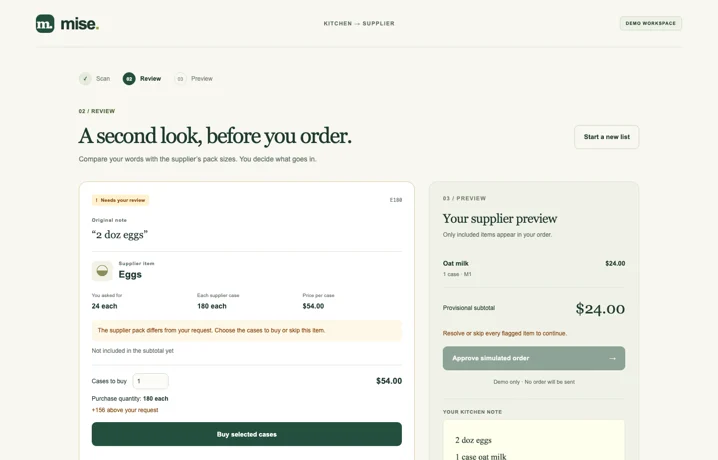
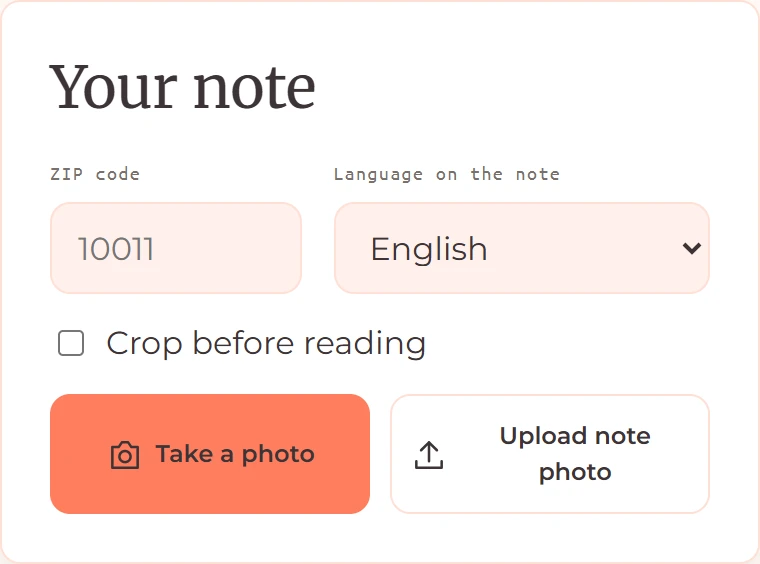
Updated main page content & minor UI changes

diff --git a/index.html b/index.html
@@ -25,7 +25,7 @@
 
     <section id="about" class="section">
       <h2>About</h2>
-      <p class="intro">I’m a computer science student at the University of Pittsburgh. I build web and mobile apps, and I’ve worked on payment systems and developer tools.</p>
+      <p class="intro">I'm studying computer science at the University of Pittsburgh with a minor in economics, and I enjoy working on technology that directly impacts people. Most of my experience is in web and mobile development. Lately, I've been learning about blockchain development and trying my hand at robotics.</p>
     </section>
 
     <section id="experience" class="section">
@@ -34,17 +34,17 @@
         <li>
           <h3><strong>Erie Insurance</strong> <span class="role-separator" aria-hidden="true">· </span>Software Engineer Intern</h3>
           <p class="details">May–Aug 2026 · Erie, PA</p>
-          <p>Cut AWS ECR image deletion turnaround from two weeks to minutes by automating ticket-based cleanup in GitLab CI/CD with protected-tag checks.</p>
+          <p>I worked on Erie's Omnichannel Communications team, where I helped maintain cloud infrastructure, automate routine upkeep through CI/CD and brought older services up to date.</p>
         </li>
         <li>
           <h3><strong>Ripple</strong> <span class="role-separator" aria-hidden="true">· </span>XRPL Student Builder Resident</h3>
           <p class="details">Mar–Apr 2026 · London, UK</p>
-          <p>Built server-side payment verification for DropIn that checked ledger finality, delivered amounts, and token issuers to reject partial payments and wrong-token transactions.</p>
+          <p>Ripple's student builder residency gave each of us four weeks to come up with an idea, build it on our own, and pitch it. I built DropIn, a way to pay for individual articles, and presented it at Ripple's London office.</p>
         </li>
         <li>
           <h3><strong>Gaida Corporation</strong> <span class="role-separator" aria-hidden="true">· </span>Software Engineer Intern</h3>
           <p class="details">May–Aug 2025 · Remote</p>
-          <p>Cut user search time from minutes to seconds by adding Firestore indexing and pagination to a Next.js admin dashboard.</p>
+          <p>A San Francisco startup building Saige, an relationship discovery app that aims to help people create meaningful connections. I worked on the mobile app and the internal operations tools used to manage it.</p>
         </li>
       </ul>
     </section>
@@ -54,22 +54,22 @@
       <ul class="entries">
         <li>
           <a class="project" href="https://github.com/aaz50/DropIn">DropIn</a>
-          <span>Pay for individual articles with XRP or stablecoins.</span>
+          <span>Built to give readers the option to pay only for the articles they want to read instead of worrying about another subscription.</span>
           <img class="preview" src="previews/dropin.webp" alt="" width="260" height="166">
         </li>
         <li>
           <a class="project" href="https://github.com/aaz50/Mise">Mise</a>
-          <span>Turn handwritten kitchen supply lists into simulated supplier carts. Two OCR passes flag discrepancies for review.</span>
-          <img class="preview" src="previews/mise.webp" alt="" width="260" height="166">
+          <span>Helps immigrant restaurant owners turn handwritten supply lists into draft orders.</span>
+          <img class="preview" src="previews/mise.webp" alt="" width="760" height="564">
         </li>
         <li>
           <a class="project" href="https://github.com/aaz50/BackedX">BackedX</a>
-          <span>Mint and trade NFTs backed by XRP escrow. Placed third in the Ripple track at TartanHacks.</span>
+          <span>An open marketplace where you can turn any digital asset into an NFT and list it for someone else to buy.</span>
           <img class="preview" src="previews/backedx.webp" alt="" width="260" height="166">
         </li>
         <li>
           <a class="project" href="https://github.com/aaz50/RollodorVision">RollodorVision</a>
-          <span>Vision model for a robotic Belmet Rollodor.</span>
+          <span>A vision model for a robotic version of the vintage Belmet Rollodor.</span>
           <img class="preview" src="previews/rollodor.webp" alt="" width="260" height="166">
         </li>
       </ul>

diff --git a/style.css b/style.css
@@ -29,8 +29,7 @@ h2 + * { margin-top: 14px; }
 .profiles a { max-width: 100%; overflow-wrap: anywhere; }
 .contents a, .profiles a { padding-block: 4px; }
 .overview { padding-bottom: 25px; }
-.intro { max-width: 52ch; font-size: 1.25rem; text-wrap: pretty; }
-.internship { margin-top: 10px; }
+.intro { max-width: 60ch; text-wrap: pretty; }
 a {
   color: inherit;
   text-decoration-color: #a49e93;
@@ -45,15 +44,9 @@ a:focus-visible { outline: 2px solid var(--ink); outline-offset: 3px; }
 .experience-list { display: grid; gap: 20px; }
 .experience-list h3 { font-size: 1rem; font-weight: 400; }
 .details { margin-block: 2px 6px; font-size: .9375rem; color: var(--muted); }
-.entries li {
-  display: grid;
-  grid-template-columns: 10rem minmax(0, 1fr);
-  align-items: baseline;
-  column-gap: 16px;
-  padding-block: 6px;
-}
+.entries { display: grid; row-gap: 12px; }
 strong, .project { font-weight: 600; }
-.project { justify-self: start; }
+.project { margin-inline-end: .25em; }
 .entries li > span { color: var(--muted); }
 .preview {
   display: none;
@@ -68,8 +61,8 @@ strong, .project { font-weight: 600; }
 }
 .preview.visible { display: block; }
 .assembly {
-  position: fixed;
-  inset: 0;
+  position: absolute;
+  inset: 0 0 auto;
   z-index: 2;
   overflow: hidden;
   pointer-events: none;
@@ -82,10 +75,8 @@ strong, .project { font-weight: 600; }
   a:hover { text-decoration-color: currentColor; }
 }
 @media (max-width: 620px) {
-  .intro { font-size: 1.125rem; }
   .experience-list h3 strong { display: block; }
   .role-separator { display: none; }
-  .entries li { grid-template-columns: 1fr; padding-block: 6px; }
 }
 @media (prefers-reduced-motion: no-preference) {
   html { scroll-behavior: smooth; }

diff --git a/main.js b/main.js
@@ -34,6 +34,7 @@ function assemblePage() {
   const rows = Math.max(1, Math.round(height / size));
   const overlay = document.createElement("div");
   overlay.className = "assembly";
+  overlay.style.height = height + "px";
   overlay.inert = true;
   overlay.setAttribute("aria-hidden", "true");
 
@@ -119,9 +120,17 @@ function assemblePage() {
     overlay.remove();
     animations.forEach(animation => animation.cancel());
   };
-  for (const event of ["resize", "scroll", "pointerdown", "keydown", "pagehide"]) {
-    window.addEventListener(event, finish, { passive: true, signal: listeners.signal });
-  }
+  const options = { passive: true, signal: listeners.signal };
+  window.addEventListener("pagehide", finish, options);
+  window.addEventListener("resize", () => {
+    if (document.documentElement.clientWidth !== width) finish();
+  }, options);
+  window.addEventListener("click", event => {
+    if (event.target instanceof Element && event.target.closest("a")) finish();
+  }, options);
+  window.addEventListener("keydown", event => {
+    if (event.key === "Escape") finish();
+  }, options);
   motion.addEventListener("change", finish, { signal: listeners.signal });
   Promise.allSettled(animations.map(animation => animation.finished)).then(() => {
     if (overlay.isConnected) finish();
